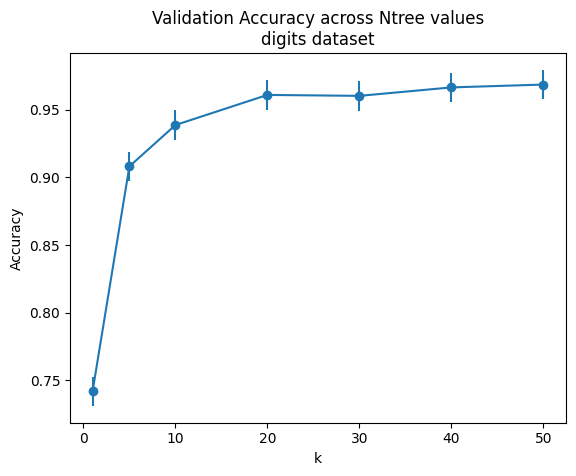
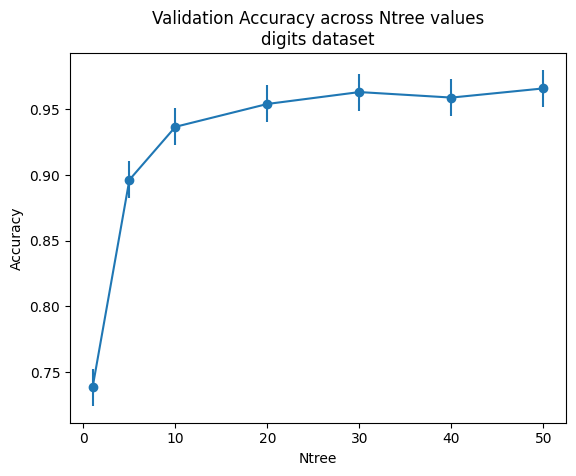
KNN and Neural Network evaluation on Credit Loan dataset (#9)

diff --git a/experiments/credit/rf_credit.py b/experiments/credit/rf_credit.py
@@ -8,35 +8,35 @@ sys.path.append(src_path)
 
 from utils.validation import random_forest_cross_validation
 from utils.plotting import plot_k_val_results, results_to_csv
-from utils.data_loader import load_digits_dataset
+from utils.data_loader import load_credit_loan_dataset
 from utils.processing import normalize, shuffle_and_split, stratified_folds
 from models.decision_tree.split_criteria import InformationGain
 from models.decision_tree.stop_criteria import MinimalGain
 from models.random_forest.random_forest import RandomForest
+import numpy as np
 
-# Load digits dataset
-digits_dataset_X, digits_dataset_y = load_digits_dataset()
-# Normalize data
-digits_dataset_X = normalize(digits_dataset_X)
+# Load credit loan dataset
+X, y = load_credit_loan_dataset()
+
 
 # Split into test and train
-X_train, X_test, y_train, y_test = shuffle_and_split(digits_dataset_X, digits_dataset_y)
+X_train, X_test, y_train, y_test = shuffle_and_split(X, y)
 
 NUM_FOLDS = 10
 X_train_folds, y_train_folds = stratified_folds(X_train, y_train, NUM_FOLDS)
 
 # Number of decision trees in random forest to cross validate
-N_TREES = [1,5,10,20,30,40,50]
+N_TREES = [1,5,10,20,30,40,50,100]
 random_forests = {}
 split_metric=InformationGain()
-stop_criteria=MinimalGain(minimal_gain=0.1, split_metric=split_metric, probability_threshold=1.0)
+stop_criteria=MinimalGain(minimal_gain=0.001, split_metric=split_metric, probability_threshold=1.0)
 for ntree in N_TREES:
-    forest = RandomForest(ntree, stop_criteria=stop_criteria, node_split_metric=split_metric)
+    forest = RandomForest(ntree, stop_criteria=stop_criteria, node_split_metric=split_metric, attribute_selection="random")
     random_forests[ntree] = forest
 
 ntree_accuracies, ntree_f1s  = random_forest_cross_validation(N_TREES, random_forests, X_train_folds, y_train_folds)
 
 results_dir = "results/"
-results_to_csv(N_TREES, ntree_accuracies, ntree_f1s, results_dir + "digits-rf-ntree-results.csv")
-plot_k_val_results(N_TREES, ntree_accuracies, "Accuracy", "Validation Accuracy across Ntree values", results_dir + "digits-rf-ntree-val-accuracies.png", "digits dataset", "Ntree")
-plot_k_val_results(N_TREES, ntree_f1s, "F1 Score", "Validation F1 scores across Ntree values", results_dir + "digits-rf-ntree-val-f1.png", "digits dataset", "Ntree")    
+results_to_csv(N_TREES, ntree_accuracies, ntree_f1s, results_dir + "credit-rf-ntree-results.csv")
+plot_k_val_results(N_TREES, ntree_accuracies, "Accuracy", "Validation Accuracy across Ntree values", results_dir + " credit-rf-ntree-val-accuracies.png", "credit dataset", "Ntree")
+plot_k_val_results(N_TREES, ntree_f1s, "F1 Score", "Validation F1 scores across Ntree values", results_dir + "credit-rf-ntree-val-f1.png", "credit dataset", "Ntree")    

diff --git a/experiments/credit/nn_credit.py b/experiments/credit/nn_credit.py
@@ -1,0 +1,35 @@
+import sys
+import os
+
+# Dynamically add the src/ folder to sys.path
+project_root = os.path.abspath(os.path.join(os.getcwd(), "..", ".."))
+src_path = os.path.join(project_root, "src")
+sys.path.append(src_path)
+
+import numpy as np
+from utils.processing import normalize, shuffle_and_split, stratified_folds
+from utils.metrics import *
+from models.neural_net.neural_network import NeuralNetwork
+from utils.validation import neural_network_cross_validation
+import pandas as pd
+from utils.plotting import plot_nn_results
+from utils.data_loader import load_credit_loan_dataset
+
+# Load credit loan dataset
+X, y = load_credit_loan_dataset()
+print("X", X.shape)
+
+X_train, X_test, y_train, y_test = shuffle_and_split(X, y)
+X_train_folds, y_train_folds = stratified_folds(X_train, y_train, 5)
+
+lrs = [1e-3, 1e-2, 5e-2, 1e-1, 5e-1]
+regs = [0.0, 1e-3, 1e-2, 1e-1]
+hidden_dims = [[2], [2,2], [2,2,2], [10], [10,10], [20], [40], [20,10], [30,15], [40,20,10]]
+
+results  = neural_network_cross_validation(X_train_folds, y_train_folds, lrs, regs, input_dim=68, hidden_dims=hidden_dims, output_dims=1)
+results_df = pd.DataFrame(results)
+
+results_csv = "results/credit-nn-results.csv"
+results_df.to_csv(results_csv, index=False)
+
+plot_nn_results(results_csv, "Credit", "results/credit-nn-results.png")

diff --git a/src/utils/data_loader.py b/src/utils/data_loader.py
@@ -1,6 +1,7 @@
 from sklearn import datasets
 import numpy as np
 from sklearn.preprocessing import LabelEncoder
+from utils.processing import normalize, one_hot_encode
 
 def load_digits_dataset():
     # Load digits dataset
@@ -18,4 +19,28 @@ def load_rice_grains_dataset():
     # Encode string labels to integers
     label_encoder = LabelEncoder()
     y = label_encoder.fit_transform(y_str)
+    return X, y
+
+def load_credit_loan_dataset():
+    data = np.genfromtxt('../../data/credit_approval.csv', delimiter=',', skip_header=1, dtype=object, encoding=None)
+
+    categorical_cols = [0, 3, 4, 5, 6, 8, 9, 10, 11, 12]
+    numerical_cols = [1, 2, 7, 13, 14]
+    
+    # Extract numerical features
+    X_numerical = data[:, numerical_cols].astype(float)
+    X_numerical_norm = normalize(X_numerical)
+    print(X_numerical_norm[0])
+
+    # Process categorical columns 
+    X_categorical_encoded = one_hot_encode(data, categorical_cols)
+    
+    print("Encoded shape", X_categorical_encoded.shape)
+    
+    # Stack cols together
+    X = np.hstack((X_numerical_norm, X_categorical_encoded))
+
+    # Labels
+    y = data[:, -1].astype(int)
+    
     return X, y

diff --git a/src/utils/validation.py b/src/utils/validation.py
@@ -124,9 +124,8 @@ def neural_network_cross_validation(X_train_folds, y_train_folds, lrs, regs, inp
                     nn = NeuralNetwork(input_dim=input_dim, hidden_layer_dims=hd, output_dim=output_dims, reg=reg, lr=lr)
                     # Concatenate all folds except current validation set
                     x_train, x_val, y_train, y_val = train_val_from_folds(X_train_folds, y_train_folds, f)
-                    nn.train(x_train, y_train, 1000, verbose=False)
+                    nn.train(x_train, y_train, 2000, verbose=False)
                     y_pred = nn.predict(x_val)
-                    # print("Unique predicted values:", np.unique(y_pred))
                     tp, fp, tn, fn = confusion_matrix(y_pred, y_val)
                     acc = calc_accuracy(tp, tn, y_val.shape[0])
                     f1 = calc_f1_score(calc_precision(tp,fp), calc_recall(tp,fn))

diff --git a/src/utils/plotting.py b/src/utils/plotting.py
@@ -4,7 +4,7 @@ import pandas as pd
 import seaborn as sns
 
 # Plot mean accuracies for a set of k values
-def plot_k_val_results(k_choices, k_vals, metric:str, title:str, image_name:str, sub_title:str=None):
+def plot_k_val_results(k_choices, k_vals, metric:str, title:str, image_name:str, sub_title:str=None, x_label="k"):
     mean_vals = []
     std_devs = []
     for k in k_choices:
@@ -23,7 +23,7 @@ def plot_k_val_results(k_choices, k_vals, metric:str, title:str, image_name:str,
     if sub_title is not None:
         title += f'\n{sub_title}'
     plt.title(title)
-    plt.xlabel('k')
+    plt.xlabel(x_label)
     plt.ylabel(metric)
     # Save for later
     plt.savefig(image_name, bbox_inches='tight')

diff --git a/src/models/random_forest/random_forest.py b/src/models/random_forest/random_forest.py
@@ -5,10 +5,10 @@ from typing import List
 import numpy as np
 
 class RandomForest():
-    def __init__(self, ntree:int, stop_criteria:StopCriteria, node_split_metric:SplitMetric):
+    def __init__(self, ntree:int, stop_criteria:StopCriteria, node_split_metric:SplitMetric, attribute_selection="random"):
         self.trees:List[DecisionTree] = []
         for i in range(ntree):
-            self.trees.append(DecisionTree(split_metric=node_split_metric, stop_criteria=stop_criteria))
+            self.trees.append(DecisionTree(split_metric=node_split_metric, stop_criteria=stop_criteria, attribute_selection=attribute_selection))
 
             
     def train(self, X:np.ndarray, y:np.ndarray) -> None:

diff --git a/src/utils/metrics.py b/src/utils/metrics.py
@@ -20,10 +20,13 @@ def calc_accuracy(tp, tn, total_test_count):
     return (tp+tn)/total_test_count
 
 def calc_precision(tp, fp):
-    return tp / (tp + fp)
+    denom = tp + fp
+    return tp / denom if denom > 0 else 0.0
 
 def calc_recall(tp, fn):
-    return tp / (tp + fn)
+    denom = tp + fn
+    return tp / denom if denom > 0 else 0.0
 
 def calc_f1_score(precision, recall, beta=1):
-    return (1 + beta**2)*(precision * recall)/(beta**2 * precision + recall)
+    denom = (beta**2 * precision + recall)
+    return (1 + beta**2) * (precision * recall) / denom if denom > 0 else 0.0

diff --git a/src/utils/processing.py b/src/utils/processing.py
@@ -20,7 +20,7 @@ def shuffle_and_split(X, y):
     # Shuffle data set
     X, y = sklearn.utils.shuffle(X,y)
     # Partition data into train + test
-    X_train, X_test, y_train, y_test = sklearn.model_selection.train_test_split(X,y, train_size=0.2, test_size=0.8, stratify=y)
+    X_train, X_test, y_train, y_test = sklearn.model_selection.train_test_split(X,y, train_size=0.8, test_size=0.2, stratify=y)
     return X_train, X_test, y_train, y_test
 
 # Split data into num stratified folds
